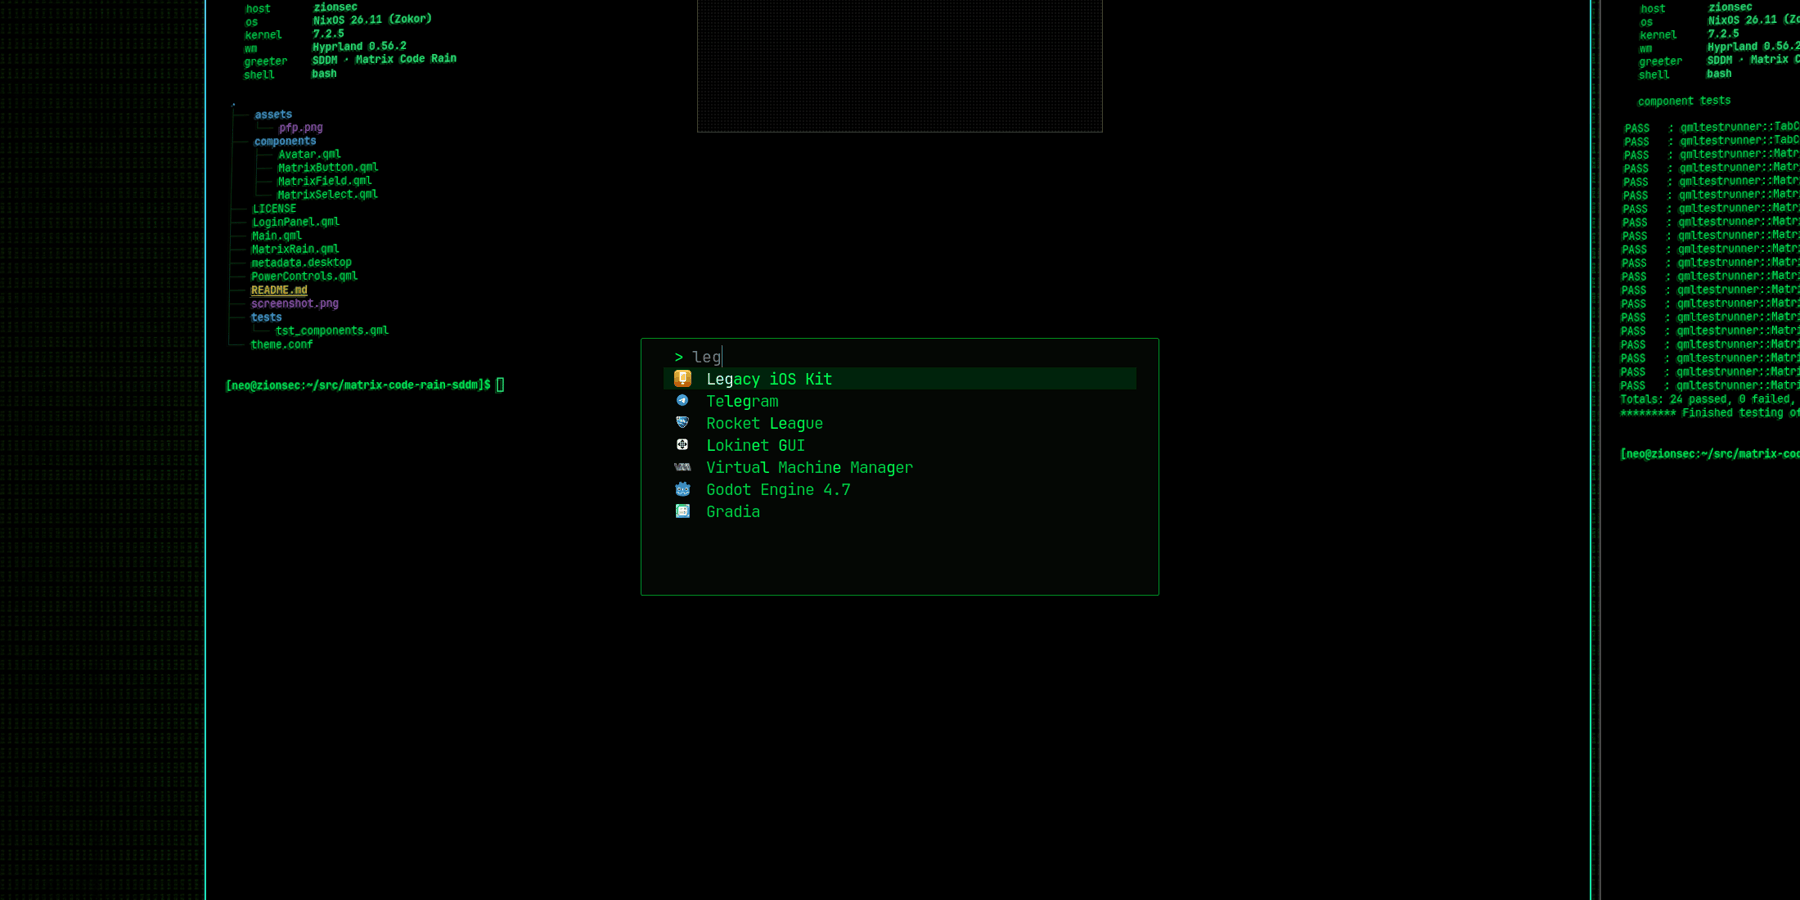
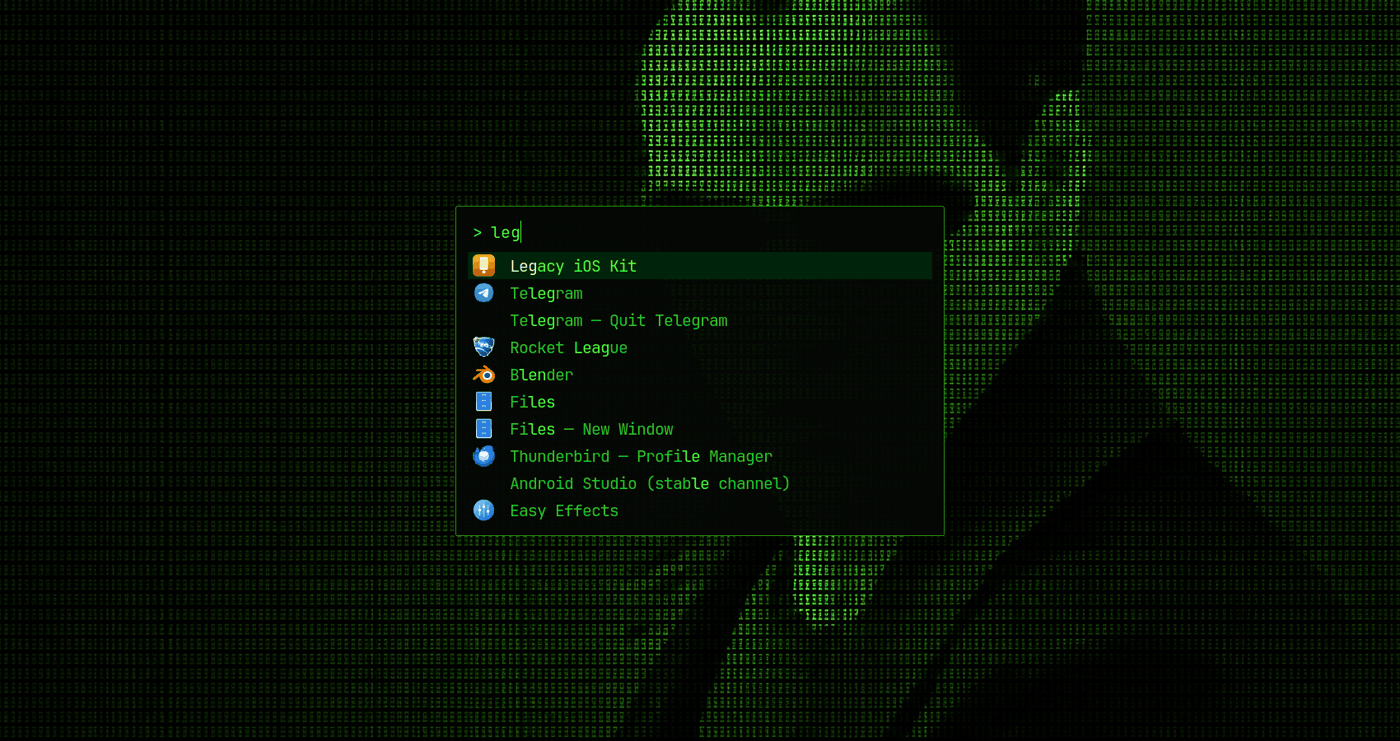
feat: make themed fuzzel the SUPER + SPACE launcher
SUPER + SPACE ran Ambxst's launcher action; it now runs fuzzel, styled in
config/fuzzel.ini with the same black/phosphor-green palette as the
Ghostty CRT theme and the Matrix Code Rain greeter. Ambxst's action is
untouched and still runs as `ambxst run launcher`.

modules/app-launcher.nix installs fuzzel, links the config, and provides
the `app-launcher` wrapper the keybind actually calls: fuzzel has no
single-instance guard, so a bare binding would stack a second launcher on
top of the first.

Config notes:

- terminal=ghostty -e, because fuzzel otherwise falls back to xterm for
  Terminal=true desktop entries, and xterm is not installed.
- icon-theme=hicolor, which is where this configuration installs its own
  application icons and where nothing else is configured to look.
- fields include keywords, so "dfu" or "restore" finds Legacy iOS Kit;
  match-mode=fuzzy rather than fzf, which was loose enough to rank
  unrelated entries above an exact keyword hit.

The launcher screenshot is retaken from this config rather than from
equivalent command-line flags.

Changed region(s): [[0.0921, 0.0, 1.0, 1.0], [0.7679, 0.5897, 0.7986, 0.6518], [0.7371, 0.6518, 0.7679, 0.6829]]

diff --git a/README.md b/README.md
@@ -15,7 +15,7 @@ An audited configuration extracted from a working Intel / NVIDIA RTX 4090 workst
 flake.nix / flake.lock  pinned inputs and host constructor
 hosts/workstation/     system baseline and PUBLIC EXAMPLE hardware
 modules/               existing functional NixOS modules
-config/                native Lua, Ghostty, Ambxst and theme settings
+config/                native Lua, Ghostty, fuzzel, Ambxst and theme settings
 packages/ / dev/       custom packages and development shell
 scripts/               validation and privacy checks
 assets/screenshots/    reviewed screenshots used by this README
@@ -54,8 +54,9 @@ per-terminal host banner from `modules/shell-greeting.nix`.
 
 ![Application launcher](assets/screenshots/application-launcher.png)
 
-`fuzzel`, listing desktop entries from the system profile — here the Legacy iOS
-Kit launcher entry and its icon.
+`fuzzel` on `SUPER + SPACE`, themed to match in `config/fuzzel.ini` and wired
+up by `modules/app-launcher.nix` — here finding the Legacy iOS Kit entry and
+its icon. The same binary, and the same theme, serve the "Open With" picker.
 
 ## Start here
 
